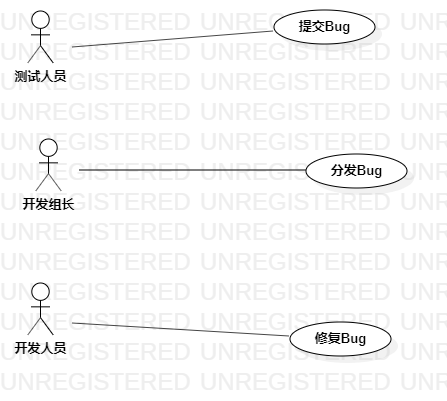
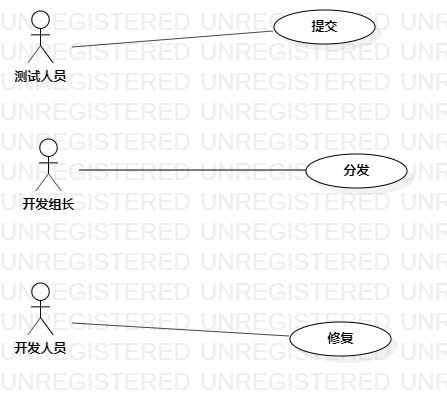
#2 #190 ‘提交实验二和修改实验一

Changed region(s): [[0.698, 0.808, 0.8434, 0.8678], [0.7271, 0.389, 0.8725, 0.4489], [0.6689, 0.0299, 0.7852, 0.0898]]

diff --git a/students/soft1714080902120/lab_02.md b/students/soft1714080902120/lab_02.md
@@ -1,29 +1,92 @@
 # 实验二：用例建模
 
-## 一、实验目标
+## 一、实验内容
 
-1. 掌握用例建模
-2. 熟练使用StarUML
+1. 细化功能需求。
+2. 画出用例图（Use Case Diagram）。
+3. 编写用例规约（表格）。
 
-## 二、实验内容
 
-1. 确定选题功能
-2. 使用StarUML画用例图
-3. 编写并提交报告
+
+## 二、实验要求
+
+1. 给每一个功能点写一段描述（字数至少60字，3行）。
+2. 写清楚使用功能的用户。
+3. 说明该功能执行之后产生的结果。
+4. 用例规约必填：基本流程（成功执行用例的步骤）；扩展流程（引起用例失败的步骤）。
+
+
 
 ## 三、实验步骤
 
-1. 确定Bug管理系统功能
-   - 提交Bug：测试人员提交Bug。
-   - 分发Bug：开发组长分发Bug。
-   - 修复Bug：开发人员修复Bug。
+1. 确定Bug管理系统功能并完善描述
+   - 提交：测试人员提交bug。提交的信息包括：bug类型、所处模块、严重程度、环境描述等。
+   - 分发：开发组长分发bug给对应的开发人员。
+   - 修复：开发人员（1人或2人）修复bug。
 2. 确定使用者
    - 测试人员
    - 开发组长
    - 开发人员
-3. 使用StarUML画用例图
+3. 创建useCase（提交，分发，修复）分别与actor（测试人员，开发组长、开发人员）连线。
+4. 导出用例图。
+
 
 
 ## 四、实验结果
 
+
+
+### 用例图
+
   ![lab_02 用例图](./lab_02_UseCaseDiagram1.png)
+
+
+
+### 用例规约的编写
+
+
+
+1. 表1：提交用例规约
+
+   + | 用例编号 | UC01                                            | 备注                 |
+     | -------- | :---------------------------------------------- | -------------------- |
+     | 用例名称 | 提交                                            |                      |
+     | 前置条件 | 测试人员登录系统；                              | *可选*               |
+     | 后置条件 |                                                 | *可选*               |
+     | 基本流程 | 1. 测试人员选择bug类型；                        | *用例执行成功的步骤* |
+     | ~        | 2. 系统显示bug信息表；                          |                      |
+     | ~        | 3. 测试人员填写bug详细信息并提交；              |                      |
+     | ~        | 4. 系统检测bug信息, 生成完整bug信息图；         |                      |
+     | ~        | 5. 系统显示提交情况；                           |                      |
+     | 扩展流程 | 2.1 系统检测发现bug已存在， 显示“该bug已存在”； | *用例执行失败*       |
+
+
+
+2. 表2：分发用例规约  
+
+   + | 用例编号 | UC02                              | 备注                 |
+     | -------- | :-------------------------------- | -------------------- |
+     | 用例名称 | 分发                              |                      |
+     | 前置条件 | 开发组长登录系统                  | *可选*               |
+     | 后置条件 |                                   | *可选*               |
+     | 基本流程 | 1. 开发组长点击进入bug信息库；    | *用例执行成功的步骤* |
+     | ~        | 2. 系统显示bug信息列表；          |                      |
+     | ~        | 3. 开发组长查看并分发给开发人员； |                      |
+     | ~        | 4. 系统记录分发情况；             |                      |
+     | 扩展流程 | 2.1 系统记录发现该bug已被分发     | *用例执行失败*       |
+
+
+
+3. 表3：修复用例规约
+
+   + | 用例编号 | UC03                                                  | 备注                 |
+     | -------- | :---------------------------------------------------- | -------------------- |
+     | 用例名称 | 修复                                                  |                      |
+     | 前置条件 | 开发人员登录系统                                      | *可选*               |
+     | 后置条件 |                                                       | *可选*               |
+     | 基本流程 | 1. 开发人员点击进入个人空间；                         | *用例执行成功的步骤* |
+     | ~        | 2. 系统显示bug列表；                                  |                      |
+     | ~        | 3.  开发人员查看bug信息，修复bug，修改bug状态并提交； |                      |
+     | ~        | 4. 系统检测bug状态，更新bug信息，提交至待验证列表；   |                      |
+     | ~        | 5.  系统显示提交状态；                                |                      |
+     | 扩展流程 | 2.1 系统检测到bug状态锁定，无法更新                   | *用例执行失败*       |

diff --git a/students/soft1714080902120/lab_01.md b/students/soft1714080902120/lab_01.md
@@ -18,9 +18,9 @@
 
 
 
-### 选题标题：历史人物介绍
+### 选题标题：Bug管理系统
 
 + 功能：
-  - 主要功能：展示人物的名字、生卒年、图片及生平事迹。
-  - 笔记功能：保存用户对人物的评价并支持查看。
-  - 反馈功能：用户可通过该功能来提出软件问题。
+  - 提交：测试人员提交Bug。
+  - 分发：开发组长分发Bug。
+  - 修复：开发人员修复Bug。
